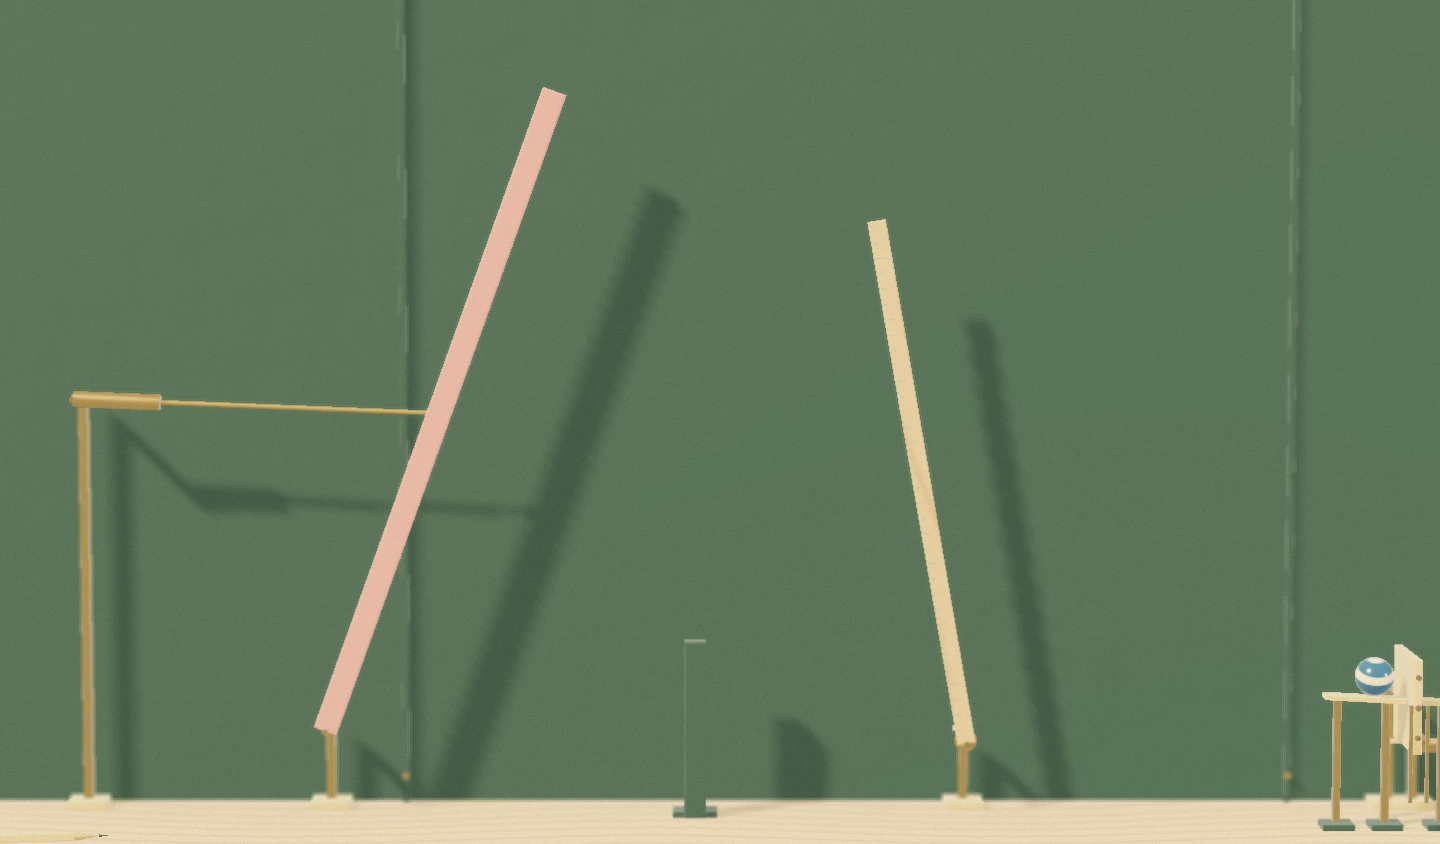
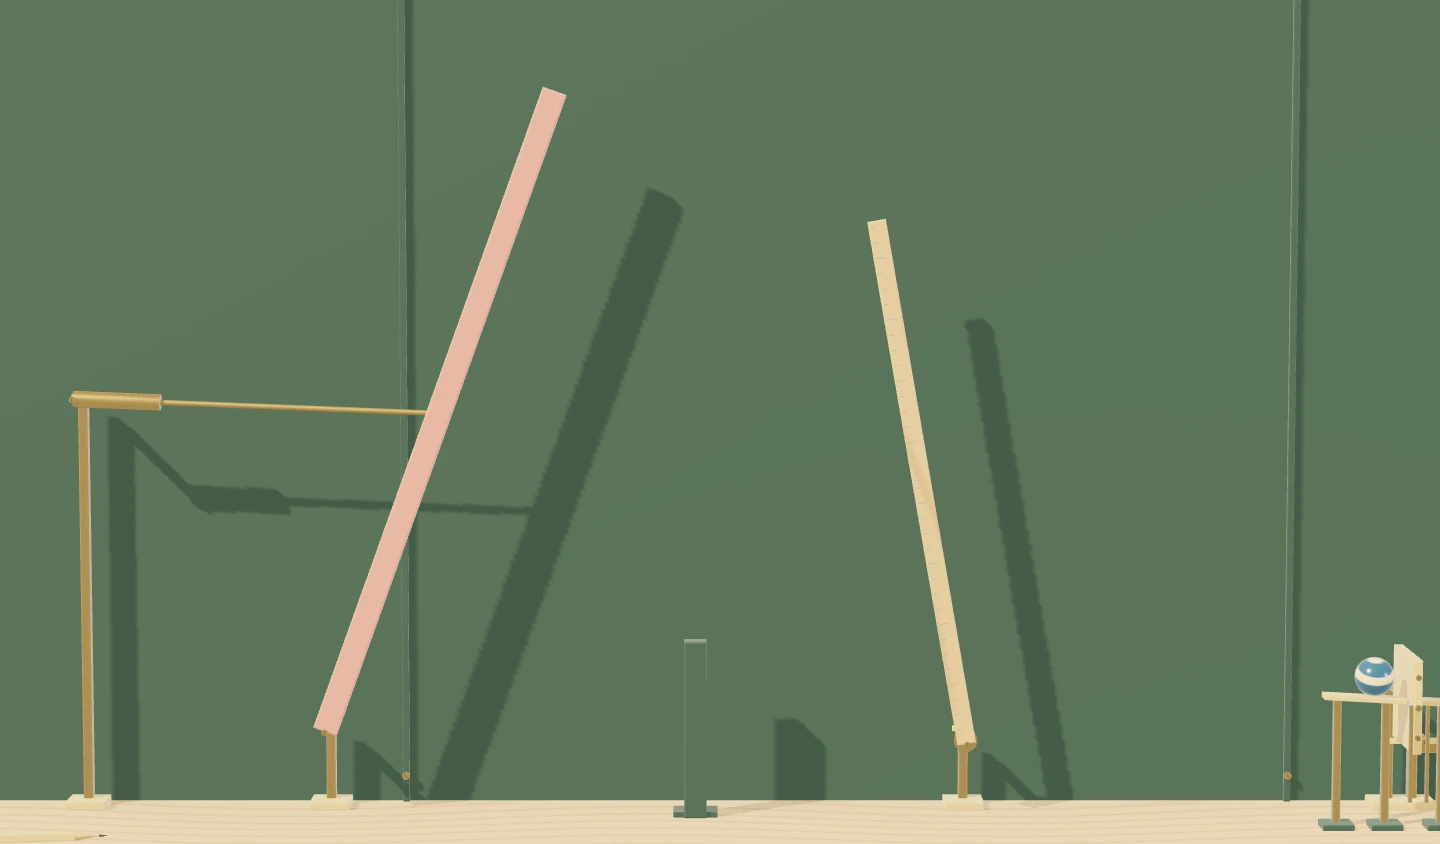
Antialias the chain reaction scene and sharpen background detail

Changed region(s): [[0.5, 0.8934, 1.0, 0.955], [0.0, 0.9242, 0.4688, 0.955]]

diff --git a/js/chain-reaction-renderer.js b/js/chain-reaction-renderer.js
@@ -1,10 +1,14 @@
 /* Tin and maple set, rendered independently from the rigid-body solver. */
 (function(global){'use strict';const CR=global.ChainReaction=global.ChainReaction||{};
  CR.makeView=function(canvas,definitions){const T=global.THREE;
- const renderer=new T.WebGLRenderer({canvas,antialias:true,powerPreference:'high-performance'});renderer.setPixelRatio(Math.min(devicePixelRatio,1.5));renderer.outputEncoding=T.sRGBEncoding;renderer.toneMapping=T.ACESFilmicToneMapping;renderer.toneMappingExposure=1.08;renderer.shadowMap.enabled=true;renderer.shadowMap.autoUpdate=false;renderer.shadowMap.type=T.PCFSoftShadowMap;renderer.info.autoReset=false;
- const target=new T.WebGLRenderTarget(1,1,{minFilter:T.LinearFilter,magFilter:T.LinearFilter,depthBuffer:true});target.texture.encoding=T.sRGBEncoding;const motionTarget=new T.WebGLRenderTarget(1,1,{minFilter:T.LinearFilter,magFilter:T.LinearFilter,depthBuffer:true});motionTarget.texture.encoding=T.sRGBEncoding;target.depthTexture=new T.DepthTexture(1,1,T.UnsignedIntType);motionTarget.depthTexture=new T.DepthTexture(1,1,T.UnsignedIntType);const postScene=new T.Scene(),postCamera=new T.OrthographicCamera(-1,1,1,-1,0,1),postMaterial=new T.ShaderMaterial({uniforms:{picture:{value:target.texture},motionPicture:{value:motionTarget.texture},motionMix:{value:0},depthMap:{value:target.depthTexture},resolution:{value:new T.Vector2(1,1)},focus:{value:30},cameraRange:{value:new T.Vector2(.1,800)},grainTime:{value:0}},vertexShader:'varying vec2 vUv;void main(){vUv=uv;gl_Position=vec4(position,1.);}',fragmentShader:`precision highp float;varying vec2 vUv;uniform sampler2D picture,motionPicture,depthMap;uniform float motionMix;uniform vec2 resolution,cameraRange;uniform float focus,grainTime;vec3 pictureAt(vec2 uv){return mix(texture2D(picture,uv).rgb,texture2D(motionPicture,uv).rgb,motionMix);}float distanceAt(vec2 uv){float d=texture2D(depthMap,uv).x;return cameraRange.x*cameraRange.y/(cameraRange.y-d*(cameraRange.y-cameraRange.x));}float noise(vec2 p){return fract(sin(dot(p,vec2(12.9898,78.233))+grainTime*37.3)*43758.5453);}void main(){float z=distanceAt(vUv);float radius=min(2.5,abs(z-focus)/max(z,.1)*50.);vec3 color=pictureAt(vUv);float weight=1.;for(int n=0;n<8;n++){float a=float(n)*.785398;vec2 q=vUv+vec2(cos(a),sin(a))*radius/resolution;float qz=distanceAt(q);float w=qz<z-.3?.08:1.;color+=pictureAt(q)*w;weight+=w;}color/=weight;float grain=(noise(gl_FragCoord.xy)-noise(gl_FragCoord.yx+17.))* .018;color+=grain;gl_FragColor=vec4(color,1.);}`});const screen=new T.Mesh(new T.PlaneGeometry(2,2),postMaterial);postScene.add(screen);
+ const renderer=new T.WebGLRenderer({canvas,antialias:true,powerPreference:'high-performance'});renderer.setPixelRatio(Math.min(devicePixelRatio,2));renderer.outputEncoding=T.sRGBEncoding;renderer.toneMapping=T.ACESFilmicToneMapping;renderer.toneMappingExposure=1.08;renderer.shadowMap.enabled=true;renderer.shadowMap.autoUpdate=false;renderer.shadowMap.type=T.PCFShadowMap;renderer.info.autoReset=false;
+ // Antialias the scene framebuffer itself. Canvas MSAA does not reach texture passes.
+ const samples=renderer.capabilities.isWebGL2?Math.min(4,renderer.capabilities.maxSamples):0;
+ function sceneTarget(){const target=samples>1?new T.WebGLMultisampleRenderTarget(1,1,{minFilter:T.LinearFilter,magFilter:T.LinearFilter,depthBuffer:true}):new T.WebGLRenderTarget(1,1,{minFilter:T.LinearFilter,magFilter:T.LinearFilter,depthBuffer:true});if(samples>1)target.samples=samples;target.texture.encoding=T.sRGBEncoding;target.depthTexture=new T.DepthTexture(1,1,T.UnsignedIntType);return target;}
+ const target=sceneTarget(),motionTarget=sceneTarget();let rasterScale=1;
+ const postScene=new T.Scene(),postCamera=new T.OrthographicCamera(-1,1,1,-1,0,1),postMaterial=new T.ShaderMaterial({uniforms:{picture:{value:target.texture},motionPicture:{value:motionTarget.texture},motionMix:{value:0},depthMap:{value:target.depthTexture},resolution:{value:new T.Vector2(1,1)},focus:{value:30},cameraRange:{value:new T.Vector2(.1,800)},grainTime:{value:0}},vertexShader:'varying vec2 vUv;void main(){vUv=uv;gl_Position=vec4(position,1.);}',fragmentShader:'precision highp float;varying vec2 vUv;uniform sampler2D picture;void main(){gl_FragColor=vec4(texture2D(picture,vUv).rgb,1.);}'});const screen=new T.Mesh(new T.PlaneGeometry(2,2),postMaterial);postScene.add(screen);
  // Anchor the complete row shadow volume to the set, independent of camera travel.
- const scene=new T.Scene();scene.background=new T.Color('#303931');scene.add(new T.HemisphereLight('#c2d3cc','#aa8562',.68));const key=new T.DirectionalLight('#ffe0af',1.2);const rowWidth=definitions.length*16;key.position.set(rowWidth/2-18,21,14);key.target.position.set(rowWidth/2,3,0);key.castShadow=true;key.shadow.mapSize.set(2048,2048);Object.assign(key.shadow.camera,{left:-rowWidth/2-4,right:rowWidth/2+4,top:20,bottom:-20,near:.1,far:80});key.shadow.normalBias=.008;key.shadow.bias=-.000025;scene.add(key,key.target);const fill=new T.DirectionalLight('#a4bfd1',.4);fill.position.set(30,7,15);scene.add(fill);
+ const scene=new T.Scene();scene.background=new T.Color('#303931');scene.add(new T.HemisphereLight('#c2d3cc','#aa8562',.68));const key=new T.DirectionalLight('#ffe0af',1.2);const rowWidth=definitions.length*16;key.position.set(rowWidth/2-18,21,14);key.target.position.set(rowWidth/2,3,0);key.castShadow=true;key.shadow.mapSize.set(Math.min(4096,renderer.capabilities.maxTextureSize),Math.min(4096,renderer.capabilities.maxTextureSize));key.shadow.radius=.75;Object.assign(key.shadow.camera,{left:-rowWidth/2-4,right:rowWidth/2+4,top:20,bottom:-20,near:.1,far:80});key.shadow.normalBias=.008;key.shadow.bias=-.000025;scene.add(key,key.target);const fill=new T.DirectionalLight('#a4bfd1',.4);fill.position.set(30,7,15);scene.add(fill);
  const roomScene=new T.Scene();roomScene.background=new T.Color('#a99d84');const roomBox=new T.Mesh(new T.BoxGeometry(12,10,10),new T.MeshBasicMaterial({color:'#aa9d83',side:T.BackSide}));roomScene.add(roomBox);for(const [x,y,z,w,h,color] of [[-4,2,3,3,5,'#f2d7ae'],[4,1,2,3,4,'#a9bec5'],[0,4.9,0,7,4,'#dec7a4']]){const panel=new T.Mesh(new T.PlaneGeometry(w,h),new T.MeshBasicMaterial({color,side:T.DoubleSide}));panel.position.set(x,y,z);roomScene.add(panel);}const pmrem=new T.PMREMGenerator(renderer),environment=pmrem.fromScene(roomScene,.05);scene.environment=environment.texture;pmrem.dispose();roomBox.geometry.dispose();roomScene.traverse(o=>{o.geometry?.dispose();o.material?.dispose();});
  const camera=new T.PerspectiveCamera(13.039,1,.1,800),mat=global.ChainReactionMaterials.make(),groups=[],cache=new Map(),links=[],partMaps=[],stateMaps=[],offsets=definitions.map((_,i)=>i*16);let framing={x:8.2,y:3.25,width:11.2,minHeight:6.7},frameSamples=[],lastFrame=null,renderedIndex=0,dirty=true,drawCount=0;
  const paintSlots={gold:mat.paint0,rose:mat.paint1,green:mat.paint};
@@ -37,14 +41,14 @@
  }
  // Keep depth precision proportional to lens distance, including shallow bench details.
  function setCamera(c){dirty=true;framing={...c};const aspect=canvas.clientWidth/canvas.clientHeight,fitHeight=Math.max(c.minHeight,c.width/aspect),distance=fitHeight/(2*Math.tan(13.039*Math.PI/360));camera.aspect=aspect;camera.near=distance*.5;camera.far=distance*1.5+8;postMaterial.uniforms.cameraRange.value.set(camera.near,camera.far);camera.position.set(c.x,c.y+distance*.08715574274765817,distance*.9961946980917455);camera.lookAt(c.x,c.y,0);camera.updateProjectionMatrix();postMaterial.uniforms.focus.value=distance-.15;}
- function resize(){renderer.setSize(canvas.clientWidth,canvas.clientHeight,false);const size=new T.Vector2();renderer.getDrawingBufferSize(size);target.setSize(size.x,size.y);motionTarget.setSize(size.x,size.y);postMaterial.uniforms.resolution.value.copy(size);setCamera(framing);}
+ function resize(){renderer.setSize(canvas.clientWidth,canvas.clientHeight,false);const size=new T.Vector2();renderer.getDrawingBufferSize(size);rasterScale=samples>1?1:Math.min(2,Math.sqrt(8000000/(size.x*size.y)),renderer.capabilities.maxTextureSize/size.x,renderer.capabilities.maxTextureSize/size.y);const w=Math.max(1,Math.round(size.x*rasterScale)),h=Math.max(1,Math.round(size.y*rasterScale));target.setSize(w,h);motionTarget.setSize(w,h);postMaterial.uniforms.resolution.value.set(w,h);setCamera(framing);}
  for(let i=0;i<definitions.length;i++){apply(i,definitions[i].verified?.armed||definitions[i].parts);if(i>0)partMaps[i].get(definitions[i].entryId).visible=false;}resize();
  // Local transforms on stock, mounts and dressing stay fixed. Moving parents still
  // propagate their world transforms to these children.
  const movingNodes=new Set();for(let i=0;i<definitions.length;i++)for(const p of definitions[i].parts)if(!p.fixed)movingNodes.add(partMaps[i].get(p.id));for(const link of links)if(link.type==='damper'){movingNodes.add(link.group);movingNodes.add(link.rod);}
  scene.updateMatrixWorld(true);scene.traverse(o=>{if(!movingNodes.has(o))o.matrixAutoUpdate=false;});renderer.compile(scene,camera);renderer.compile(postScene,postCamera);
- function draw(now=performance.now(),record=false,animation=0,blur=false){drawCount++;if(record&&lastFrame!==null){frameSamples.push(now-lastFrame);if(frameSamples.length>2000)frameSamples.shift();}if(record)lastFrame=now;renderer.info.reset();const current=[...stateMaps[renderedIndex].values()],index=renderedIndex,offset=renderedHeroOffset;function exposure(dt){return current.map(p=>{if(!p.vx&&!p.vy&&!p.spin)return p;const c=definitions[index].parts.find(q=>q.id===p.id).centerOfMass||{x:0,y:0},co=Math.cos(p.angle),si=Math.sin(p.angle),cx=co*c.x-si*c.y,cy=si*c.x+co*c.y;return {...p,x:p.x-(p.vx+p.spin*cy)*dt,y:p.y-(p.vy-p.spin*cx)*dt,angle:p.angle-p.spin*dt};});}
- // Both colour samples share the latest shutter sample's shadow map.
- renderer.shadowMap.needsUpdate=true;if(blur)apply(index,exposure(1/480),offset);renderer.setRenderTarget(target);renderer.render(scene,camera);if(blur){apply(index,exposure(1/160),offset);renderer.setRenderTarget(motionTarget);renderer.render(scene,camera);apply(index,current,offset);}renderer.setRenderTarget(null);postMaterial.uniforms.motionMix.value=blur?.5:0;postMaterial.uniforms.grainTime.value=animation;renderer.render(postScene,postCamera);dirty=false;}
- return {apply,setCamera,resize,draw,needsDraw:()=>dirty,invalidate(){dirty=true;},hideEntry(index,hidden){const g=partMaps[index].get(definitions[index].entryId);if(g){g.visible=!hidden;dirty=true;}},hideHero(index,hidden){const g=partMaps[index].get(definitions[index].exitId);if(g){g.visible=!hidden;dirty=true;}},framing:()=>({...framing}),project(x,y,z=0){const p=new T.Vector3(x,y,z).project(camera);return {x:(p.x+1)*canvas.clientWidth/2,y:(1-p.y)*canvas.clientHeight/2};},worldAt(px,py){return {x:framing.x+(px/canvas.clientWidth-.5)*Math.max(framing.width,framing.minHeight*camera.aspect),y:framing.y+(.5-py/canvas.clientHeight)*Math.max(framing.minHeight,framing.width/camera.aspect)};},metrics:()=>({totalFrames:drawCount,drawCalls:renderer.info.render.calls,triangles:renderer.info.render.triangles,frames:[...frameSamples]}),resetMetrics(){frameSamples=[];lastFrame=null;},dispose(){cache.forEach(g=>g.dispose());Object.values(mat).forEach(m=>{m.map?.dispose();m.normalMap?.dispose();m.roughnessMap?.dispose();m.dispose();});heroMaterial.dispose();tex.dispose();environment.dispose();target.dispose();motionTarget.dispose();postMaterial.dispose();screen.geometry.dispose();renderer.dispose();}};
+ function draw(now=performance.now(),record=false,animation=0,blur=false){drawCount++;if(record&&lastFrame!==null){frameSamples.push(now-lastFrame);if(frameSamples.length>2000)frameSamples.shift();}if(record)lastFrame=now;renderer.info.reset();
+ // Keep every depth plane and moving edge crisp. This pass adds no lens or shutter blur.
+ renderer.shadowMap.needsUpdate=true;renderer.setRenderTarget(target);renderer.render(scene,camera);renderer.setRenderTarget(null);postMaterial.uniforms.motionMix.value=0;postMaterial.uniforms.grainTime.value=0;renderer.render(postScene,postCamera);dirty=false;}
+ return {quality:()=>({samples,rasterScale,pixelRatio:renderer.getPixelRatio(),depthType:target.depthTexture.type,focusBlur:0,motionBlur:0,grain:0,shadowMapSize:key.shadow.mapSize.x,shadowFilter:renderer.shadowMap.type}),apply,setCamera,resize,draw,needsDraw:()=>dirty,invalidate(){dirty=true;},hideEntry(index,hidden){const g=partMaps[index].get(definitions[index].entryId);if(g){g.visible=!hidden;dirty=true;}},hideHero(index,hidden){const g=partMaps[index].get(definitions[index].exitId);if(g){g.visible=!hidden;dirty=true;}},framing:()=>({...framing}),project(x,y,z=0){const p=new T.Vector3(x,y,z).project(camera);return {x:(p.x+1)*canvas.clientWidth/2,y:(1-p.y)*canvas.clientHeight/2};},worldAt(px,py){return {x:framing.x+(px/canvas.clientWidth-.5)*Math.max(framing.width,framing.minHeight*camera.aspect),y:framing.y+(.5-py/canvas.clientHeight)*Math.max(framing.minHeight,framing.width/camera.aspect)};},metrics:()=>({totalFrames:drawCount,drawCalls:renderer.info.render.calls,triangles:renderer.info.render.triangles,frames:[...frameSamples]}),resetMetrics(){frameSamples=[];lastFrame=null;},dispose(){cache.forEach(g=>g.dispose());Object.values(mat).forEach(m=>{m.map?.dispose();m.normalMap?.dispose();m.roughnessMap?.dispose();m.dispose();});heroMaterial.dispose();tex.dispose();environment.dispose();target.dispose();motionTarget.dispose();postMaterial.dispose();screen.geometry.dispose();renderer.dispose();}};
  };})(window);

diff --git a/chain-reaction.html b/chain-reaction.html
@@ -8,12 +8,12 @@
 <link rel="stylesheet" href="style.css"><link rel="stylesheet" href="chain-reaction.css?v=0.1.0">
 <script defer src="js/vendor/three-r128.min.js"></script>
 <script defer src="js/chain-reaction-physics.js?v=0.2.0"></script><script defer src="js/chain-reaction-events.js?v=0.1.1"></script>
-<script defer src="js/chain-reaction-materials.js?v=0.1.0"></script><script defer src="js/chain-reaction-renderer.js?v=0.1.3"></script>
+<script defer src="js/chain-reaction-materials.js?v=0.1.0"></script><script defer src="js/chain-reaction-renderer.js?v=0.1.4"></script>
 <script defer src="js/chain-reaction-sound.js?v=0.1.0"></script><script defer src="js/chain-reaction.js?v=0.1.2"></script>
 </head>
 <body>
 <header class="cr-bar"><a href="index.html" class="cr-home">Home</a><span class="cr-caption" id="caption">Chain Reaction</span><button id="about-toggle" aria-expanded="false" aria-controls="about">About</button></header>
-<main class="cr-stage"><canvas id="machine" aria-label="A chain reaction built from maple arms, a hanging tin cup and a wooden wheel." tabindex="0"></canvas><picture class="cr-still" id="still"><source media="(orientation:portrait)" srcset="assets/chain-reaction/stills/portrait.webp?v=0.1.3"><source media="(max-height:600px)" srcset="assets/chain-reaction/stills/landscape.webp?v=0.1.3"><img src="assets/chain-reaction/stills/desktop.webp?v=0.1.3" alt="The armed maple and tin machine on its workbench." loading="eager"></picture><p class="cr-title" id="stage-title">The Long Arm</p><p class="cr-status" id="status" role="status">Preparing the bench.</p><div class="cr-controls"><button id="follow" hidden>Follow</button><button id="pause" aria-pressed="false">Pause</button><button id="sound" aria-pressed="false" hidden>Sound off</button></div><div class="cr-frontier" id="frontier" hidden><p>Three stages built so far.</p><a href="#stage=1" id="restart">Back to the beginning</a></div></main>
+<main class="cr-stage"><canvas id="machine" aria-label="A chain reaction built from maple arms, a hanging tin cup and a wooden wheel." tabindex="0"></canvas><picture class="cr-still" id="still"><source media="(orientation:portrait)" srcset="assets/chain-reaction/stills/portrait.webp?v=0.1.4"><source media="(max-height:600px)" srcset="assets/chain-reaction/stills/landscape.webp?v=0.1.4"><img src="assets/chain-reaction/stills/desktop.webp?v=0.1.4" alt="The armed maple and tin machine on its workbench." loading="eager"></picture><p class="cr-title" id="stage-title">The Long Arm</p><p class="cr-status" id="status" role="status">Preparing the bench.</p><div class="cr-controls"><button id="follow" hidden>Follow</button><button id="pause" aria-pressed="false">Pause</button><button id="sound" aria-pressed="false" hidden>Sound off</button></div><div class="cr-frontier" id="frontier" hidden><p>Three stages built so far.</p><a href="#stage=1" id="restart">Back to the beginning</a></div></main>
 <aside id="about" class="cr-about" hidden><p>A small machine on a long workbench. Each stage uses rigid bodies at real gravity, with its own rails, bearings and latches. Before a stage joins the chain, it runs 200 variations in each direction, plus tests with its triggers held still. Drag to look around, scroll or pinch to pull back, and tap a stage in the wide view to start there.</p><p><a id="share" href="#stage=1">Link to this stage</a><span>Three stages added October 6, 2026.</span></p></aside>
 <noscript><style>.cr-controls{display:none}</style><p class="cr-noscript">The moving machine needs JavaScript.</p></noscript>
 </body></html>

diff --git a/docs/CHAIN_REACTION.md b/docs/CHAIN_REACTION.md
@@ -363,15 +363,15 @@ stages. The renderer carries the marble's painted rotation into the next entry a
 hides each future canonical entry until its predecessor arrives.
 
 The scene uses real-depth meshes, shared procedural finishes, world-space light,
-beveled edges, visible bearings, stops, guide slots, stands and dashpots. Depth blur
-uses the depth buffer and distance to the focus plane. Two exposure samples provide
-an approximation of a 180-degree shutter at 60 fps. They change display poses only.
-Physics stays at 240 Hz. Film grain stops when playback pauses. The renderer warms
-both scene and film shaders before motion. Both shutter targets have depth buffers.
+beveled edges, visible bearings, stops, guide slots, stands and dashpots. The owner requested sharper background objects and shadows on October 6, 2026.
+The current renderer copies the scene color without focus blur, shutter blur or
+film grain. Physics stays at 240 Hz. Earlier versions used depth-buffer focus blur
+and two display-only shutter samples; their evidence remains in the private records. The renderer warms
+both scene and film shaders before motion. The scene target retains a 24-bit depth texture.
 The row light and its shadow volume stay anchored to the set during camera travel.
-Depth textures use 24-bit storage in both shutter targets. Camera clip limits track
+The current multisample scene pass resolves both color and 24-bit depth. Camera clip limits track
 lens distance (near is half the distance, far is 1.5 times it plus 8 units), and the
-focus shader reconstructs depth from those actual limits. The former 16-bit buffer
+GPU depth probes reconstruct distance from those actual limits. The former 16-bit buffer
 with fixed 0.1-to-800 limits lost inches of depth at overview distance. Gold mounting
 feet could then tie with the farther bench in depth and be overwritten by it.
 A missing depth buffer formerly let rear objects overwrite front objects in one
@@ -441,3 +441,36 @@ three early reflections with a decaying tail. Its absolute impulse sum is bounde
 so the voice cap, rolling gain and room response permit a conservative clipping
 check. One world provides no cross-world loudness comparison yet. Approval by ear
 belongs to the owner.
+
+
+## Sharpness and antialiasing
+
+Renderer 0.1.4 antialiases the offscreen scene, rather than relying only on the
+canvas context. Supported WebGL2 uses four-sample multisampling, clamped to the
+GPU's sample limit. Other contexts use a larger scene texture with linear
+downsampling, bounded to eight million pixels and the GPU texture limit. Screen
+DPR is capped at two. Final color has no focus blur, shutter blending or grain,
+so rear surfaces and moving edges retain their rendered detail. The fixed key
+light uses a 4096 shadow map with narrower PCF filtering, clamped to the GPU limit.
+
+The clarity fixture measures actual GPU multisample allocations and fractional
+coverage on a diagonal edge. A rear checkerboard and raw scene-buffer comparison
+prove that the final pass preserves detail. The former single-sample scene buffer
+has no fractional edge coverage in the fixture; its focus pass changes values by
+up to 107 levels. The revised final pass matches the scene buffer exactly in both
+browsers, while actual multisampling supplies edge coverage. Rendering checks
+retain zoom stability and physical mesh alignment. Private prototypes share these
+quality settings, with separate tests of actual WebGL2 and forced WebGL1 pages.
+
+The depth check compares a resolved sample with the exact bench-plane depth range
+inside its pixel, retaining the 0.002-unit allowance outside that range. This
+accounts for the covered subpixel selected by MSAA depth resolve. The revised
+renderer loses none of 414 mounting-foot frames; the old 16-bit renderer loses
+330 of 414 and fails all six profiles with errors up to 2.47 units outside the
+pixel footprint. No simulation setting or physical gate changes.
+
+The CPU-4x landscape phone proxy stays within the 16.7 ms frame budget: median
+busy/overview p95 intervals are 10.0/11.0 ms at DPR one and 10.8/11.3 ms at DPR
+two, across five runs per view. Desktop is 5.7/5.6 ms; the owner-sized high-density
+view is 7.8/6.3 ms. Continuous three-stage playback and all sixteen handoff frames
+pass. These are local proxy measurements, not measurements on the owner's phone.
